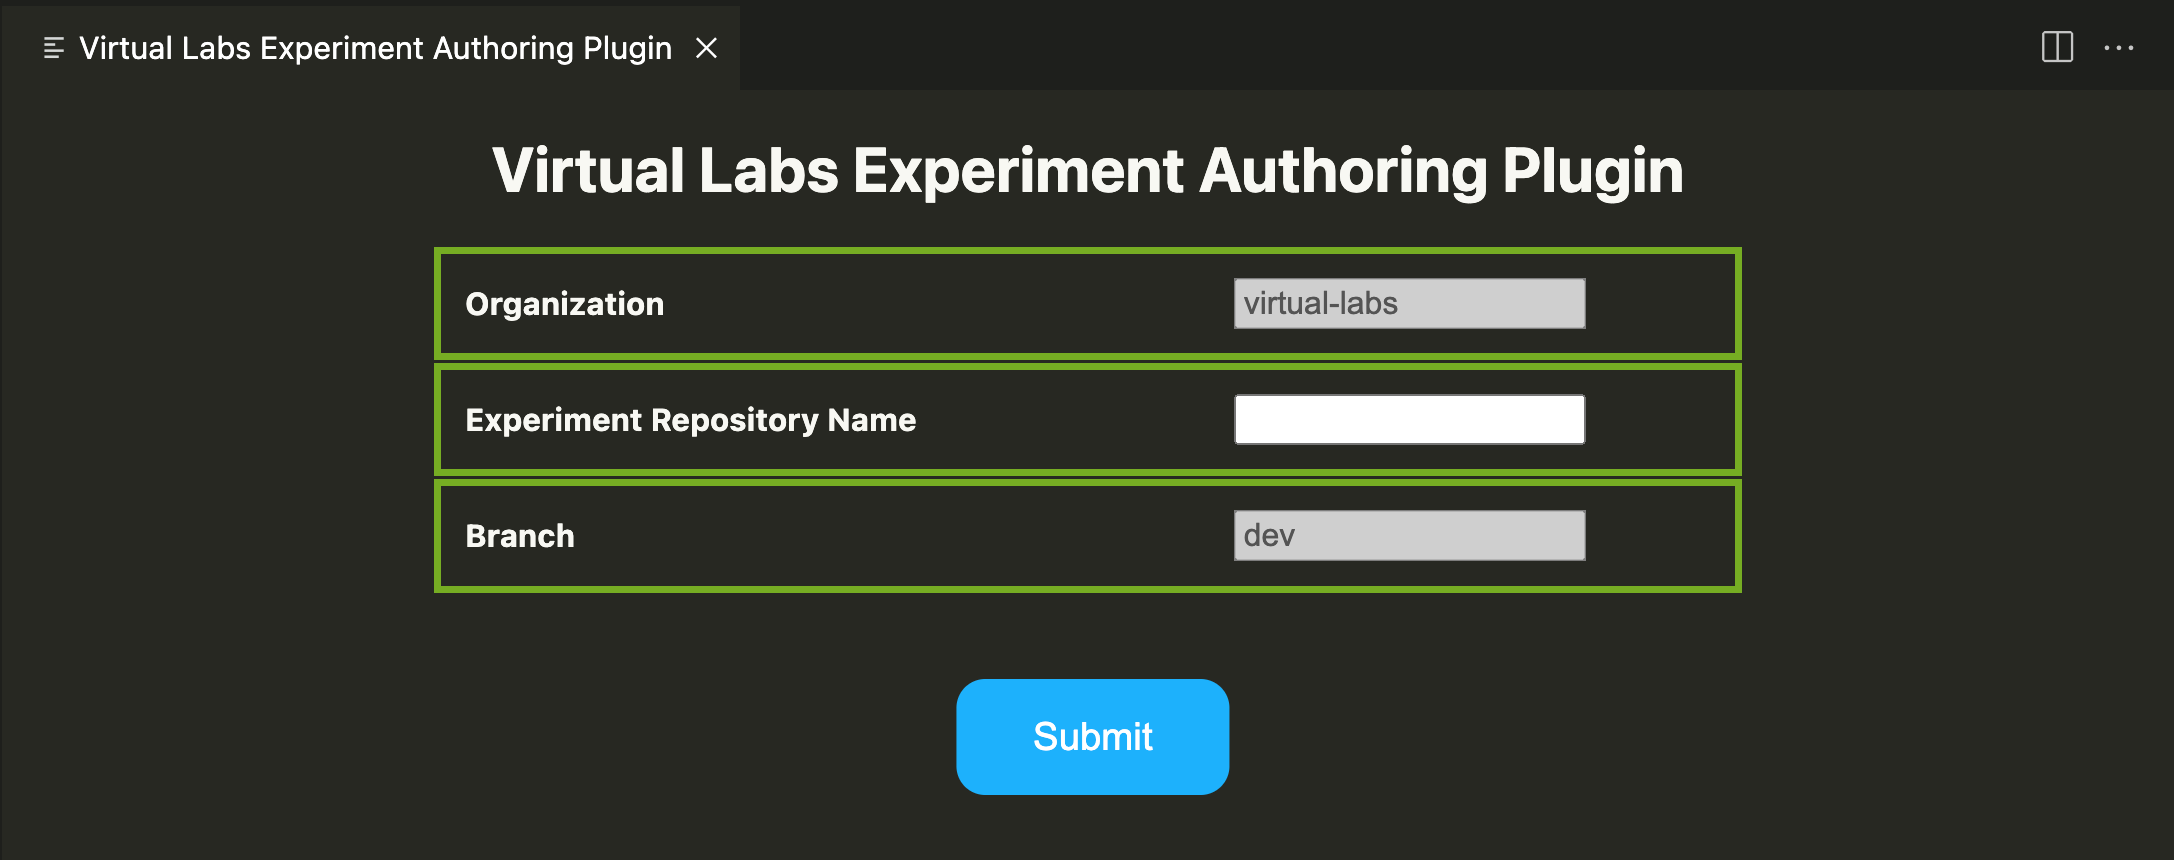
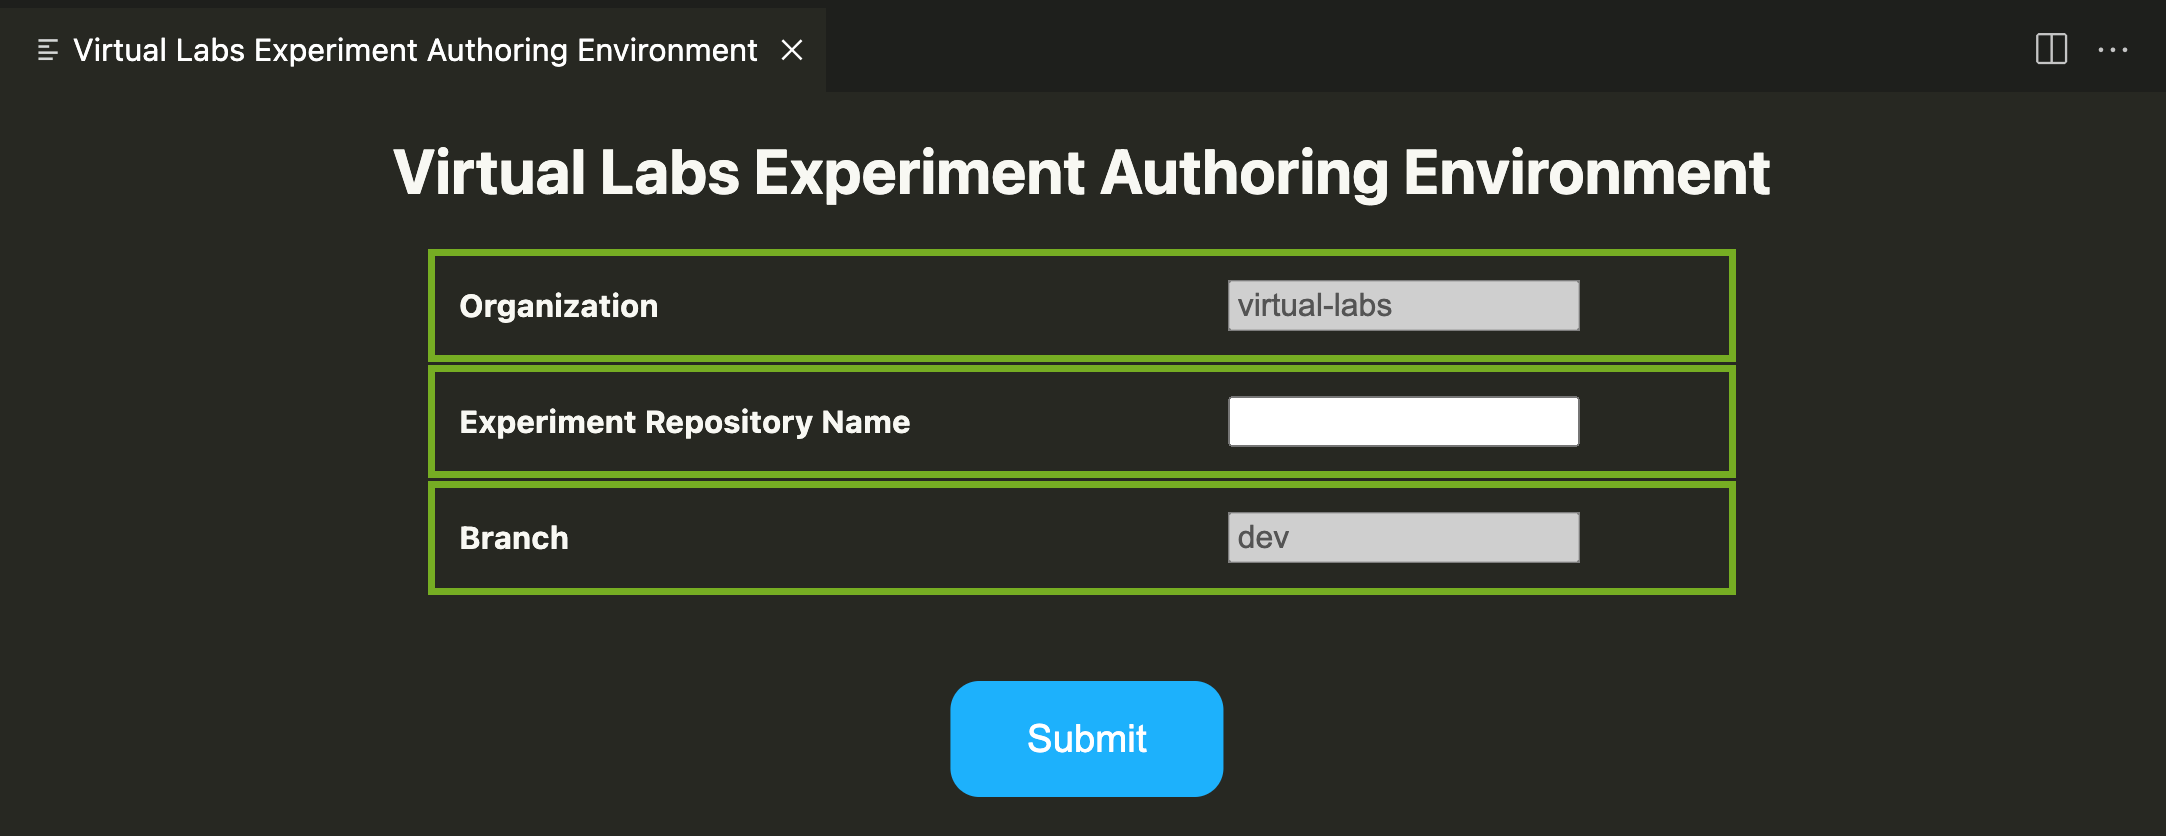
fixed minor bugs

diff --git a/extension.js b/extension.js
@@ -14,7 +14,7 @@ function getPanel1Content(scriptUri, styleUri) {
 		<head>
 			<meta charset="UTF-8">
 			<meta name="viewport" content="width=device-width, initial-scale=1.0">	
-			<title>Virtual Labs Experiment Authoring Plugin</title>
+			<title>Virtual Labs Experiment Authoring Environment</title>
 			<link rel="stylesheet" href="${styleUri}">
 		</head>
 		<body>
@@ -47,7 +47,7 @@ function getPanel1Content(scriptUri, styleUri) {
 function cloneWebView() {
 	const panel = vscode.window.createWebviewPanel(
 		'virtualLabs', // Identifies the type of the webview. Used internally
-		'Virtual Labs Experiment Authoring Plugin', // Title of the panel displayed to the user
+		'Virtual Labs Experiment Authoring Environment', // Title of the panel displayed to the user
 		vscode.ViewColumn.One, // Editor column to show the new webview panel in.
 		{
 			enableScripts: true
@@ -442,12 +442,12 @@ function getWebviewFormContent(scriptUri, styleUri) {
 		<head>
 			<meta charset="UTF-8">
 			<meta name="viewport" content="width=device-width, initial-scale=1.0">
-			<title>Virtual Labs Experiment Authoring Plugin</title>
+			<title>Virtual Labs Experiment Authoring Environment</title>
 			<link rel="stylesheet" href="${styleUri}">
 		</head>
 
 		<body>
-			<h1>Virtual Labs Experiment Authoring Plugin</h1>
+			<h1>Virtual Labs Experiment Authoring Environment</h1>
 			<div class="Organization">
 				<label for="userName">Github User Name</label>
 				<input type="text" id="userName" name="userName">
@@ -488,12 +488,12 @@ function getWebviewContent(scriptUri, styleUri) {
 		<head>
 			<meta charset="UTF-8">
 			<meta name="viewport" content="width=device-width, initial-scale=1.0">
-			<title>Virtual Labs Experiment Authoring Plugin</title>
+			<title>Virtual Labs Experiment Authoring Environment</title>
 			<link rel="stylesheet" href="${styleUri}">
 		</head>
 
 		<body>
-			<h1>Virtual Labs Experiment Authoring Plugin</h1>
+			<h1>Virtual Labs Experiment Authoring Environment</h1>
 			<div class="Organization">
 				<label for="organization">Organization</label>
 				<div class="select-container">

diff --git a/README.md b/README.md
@@ -1,11 +1,11 @@
-# Virtual Labs Experiment Authoring Plugin
+# Virtual Labs Experiment Authoring Environment
 
 Virtual Labs is an initiative by the Ministry of Education, Government of India that aims to provide remote-access to simulation-based Labs in various disciplines of Science and Engineering. It also provides free, laboratory learning experience to students through remote experimentation.
 
 This is a Visual Studio Code extension for authoring Virtual Labs experiments in a streamlined and user friendly way. It provides options that handle all the common tasks involved in experiment development.
 ## Getting Started
 
-1. Install the extension from the Visual Studio Code Marketplace by searching for "Virtual Labs Experiment Authoring Plugin".
+1. Install the extension from the Visual Studio Code Marketplace by searching for "Virtual Labs Experiment Authoring Environment".
 2. Open a folder in Visual Studio Code where you wish to create the experiment repository.
 3. Click on the extension icon on the left panel of Visual Studio Code.
 
@@ -25,7 +25,7 @@ This is a Visual Studio Code extension for authoring Virtual Labs experiments in
     ![image](./images/deploy.png)
     
 
-**Note**: If there are multiple experiment folders in a directory, you will have to open the folder on VS Code on which you wish to work and this plugin will work on that folder only.
+**Note**: If there are multiple experiment folders in a directory, you will have to open the folder on VS Code on which you wish to work and this extension will work on that folder only.
 
 ## Developer Support
 
